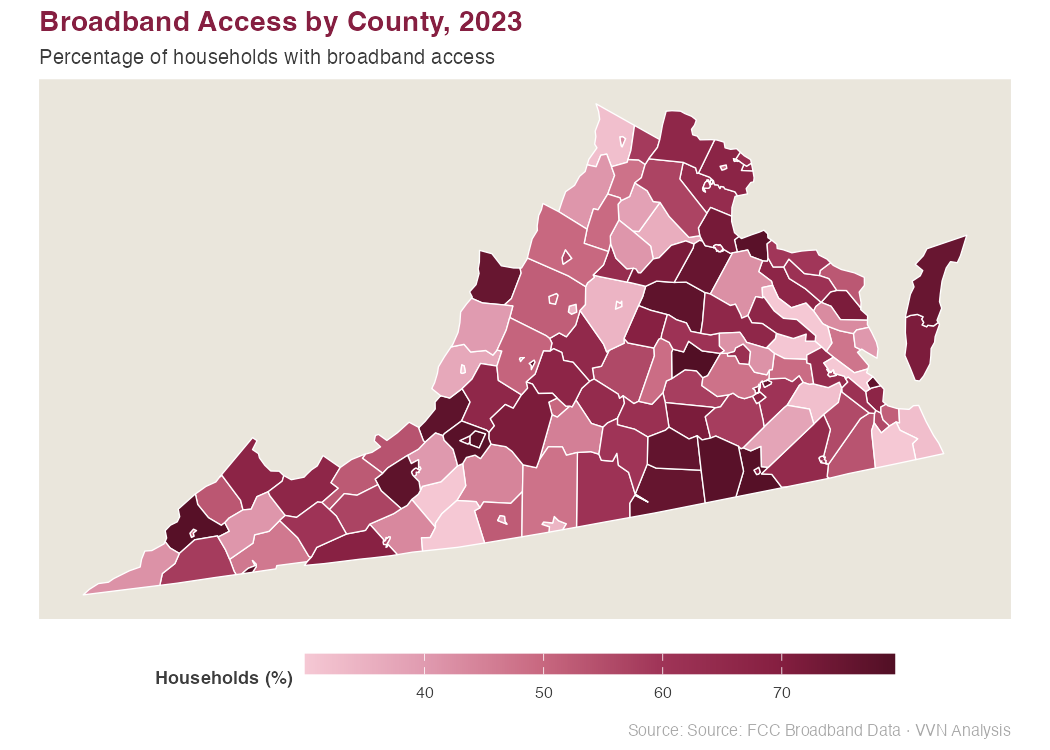
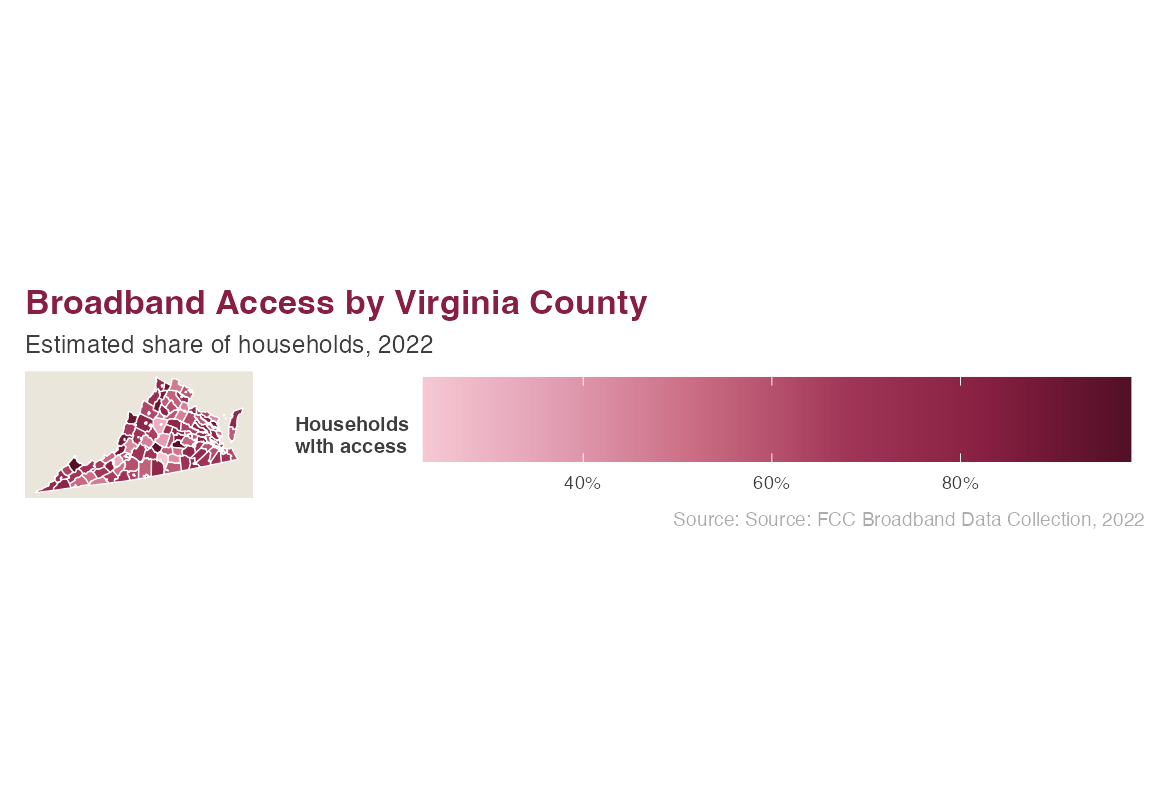
Redesign demo panel: side-by-side terminal UI, new Virginia map
- New side-by-side layout (58fr/42fr) with dark navy terminal theme
- Traffic-light dots in code panel header
- New demo-map.png: Virginia county broadband choropleth via tigris/sf
- Light breadcrumb bar navigation in all pages
- funcindex.qmd reorganized by category with TOC

diff --git a/docs/index.html b/docs/index.html
@@ -77,7 +77,7 @@ pre > code.sourceCode > span > a:first-child::before { text-decoration: underlin
 <link href="site_libs/quarto-html/quarto-syntax-highlighting-acf12a64177840b8d86f2d4f01b2e9fb.css" rel="stylesheet" id="quarto-text-highlighting-styles">
 <script src="site_libs/bootstrap/bootstrap.min.js"></script>
 <link href="site_libs/bootstrap/bootstrap-icons.css" rel="stylesheet">
-<link href="site_libs/bootstrap/bootstrap-7bac25fbb771050e881862a1862898b3.min.css" rel="stylesheet" append-hash="true" id="quarto-bootstrap" data-mode="light">
+<link href="site_libs/bootstrap/bootstrap-71bd93bf73a5281e69cbd034b7b923c6.min.css" rel="stylesheet" append-hash="true" id="quarto-bootstrap" data-mode="light">
 <script id="quarto-search-options" type="application/json">{
   "location": "navbar",
   "copy-button": false,
@@ -427,15 +427,15 @@ pre > code.sourceCode > span > a:first-child::before { text-decoration: underlin
 <section id="demo-build-a-choropleth-map" class="level2">
 <h2 class="anchored" data-anchor-id="demo-build-a-choropleth-map">Demo: Build a Choropleth Map</h2>
 <p>Load <code>vvnthemes</code>, join your county data, and call <code>vvn_map_style()</code> — the map is styled, labeled, and ready in under 10 lines of code.</p>
-<div class="demo-panel demo-panel--stacked">
+<div class="demo-panel">
 <div class="demo-panel-code">
-<div class="demo-panel-header">R — county choropleth map</div>
+<div class="demo-panel-header">vvnthemes · choropleth_map.R</div>
 <div class="demo-panel-body">
 <pre><code id="demo-gs-code"></code><span class="demo-cursor" id="demo-gs-cursor"></span></pre>
 </div>
 </div>
 <div class="demo-panel-output" id="demo-gs-output" style="opacity:0;transition:opacity 0.7s ease;">
-<div class="demo-panel-header">Map output</div>
+<div class="demo-panel-header">Output</div>
 <div class="demo-panel-body">
 <img src="images/demo-map.png" alt="VVN county choropleth map of Virginia">
 </div>
@@ -1245,15 +1245,15 @@ document.addEventListener('DOMContentLoaded', function () {
 <span id="cb3-228"><a href="#cb3-228" aria-hidden="true" tabindex="-1"></a>Load <span class="in">`vvnthemes`</span>, join your county data, and call <span class="in">`vvn_map_style()`</span> — the map is styled, labeled, and ready in under 10 lines of code.</span>
 <span id="cb3-229"><a href="#cb3-229" aria-hidden="true" tabindex="-1"></a></span>
 <span id="cb3-230"><a href="#cb3-230" aria-hidden="true" tabindex="-1"></a><span class="in">```{=html}</span></span>
-<span id="cb3-231"><a href="#cb3-231" aria-hidden="true" tabindex="-1"></a><span class="in">&lt;div class="demo-panel demo-panel--stacked"&gt;</span></span>
+<span id="cb3-231"><a href="#cb3-231" aria-hidden="true" tabindex="-1"></a><span class="in">&lt;div class="demo-panel"&gt;</span></span>
 <span id="cb3-232"><a href="#cb3-232" aria-hidden="true" tabindex="-1"></a><span class="in">&lt;div class="demo-panel-code"&gt;</span></span>
-<span id="cb3-233"><a href="#cb3-233" aria-hidden="true" tabindex="-1"></a><span class="in">&lt;div class="demo-panel-header"&gt;R — county choropleth map&lt;/div&gt;</span></span>
+<span id="cb3-233"><a href="#cb3-233" aria-hidden="true" tabindex="-1"></a><span class="in">&lt;div class="demo-panel-header"&gt;vvnthemes · choropleth_map.R&lt;/div&gt;</span></span>
 <span id="cb3-234"><a href="#cb3-234" aria-hidden="true" tabindex="-1"></a><span class="in">&lt;div class="demo-panel-body"&gt;</span></span>
 <span id="cb3-235"><a href="#cb3-235" aria-hidden="true" tabindex="-1"></a><span class="in">&lt;pre&gt;&lt;code id="demo-gs-code"&gt;&lt;/code&gt;&lt;span class="demo-cursor" id="demo-gs-cursor"&gt;&lt;/span&gt;&lt;/pre&gt;</span></span>
 <span id="cb3-236"><a href="#cb3-236" aria-hidden="true" tabindex="-1"></a><span class="in">&lt;/div&gt;</span></span>
 <span id="cb3-237"><a href="#cb3-237" aria-hidden="true" tabindex="-1"></a><span class="in">&lt;/div&gt;</span></span>
 <span id="cb3-238"><a href="#cb3-238" aria-hidden="true" tabindex="-1"></a><span class="in">&lt;div class="demo-panel-output" id="demo-gs-output" style="opacity:0;transition:opacity 0.7s ease;"&gt;</span></span>
-<span id="cb3-239"><a href="#cb3-239" aria-hidden="true" tabindex="-1"></a><span class="in">&lt;div class="demo-panel-header"&gt;Map output&lt;/div&gt;</span></span>
+<span id="cb3-239"><a href="#cb3-239" aria-hidden="true" tabindex="-1"></a><span class="in">&lt;div class="demo-panel-header"&gt;Output&lt;/div&gt;</span></span>
 <span id="cb3-240"><a href="#cb3-240" aria-hidden="true" tabindex="-1"></a><span class="in">&lt;div class="demo-panel-body"&gt;</span></span>
 <span id="cb3-241"><a href="#cb3-241" aria-hidden="true" tabindex="-1"></a><span class="in">&lt;img src="images/demo-map.png" alt="VVN county choropleth map of Virginia"&gt;</span></span>
 <span id="cb3-242"><a href="#cb3-242" aria-hidden="true" tabindex="-1"></a><span class="in">&lt;/div&gt;</span></span>

diff --git a/docs/charts.html b/docs/charts.html
@@ -77,7 +77,7 @@ pre > code.sourceCode > span > a:first-child::before { text-decoration: underlin
 <link href="site_libs/quarto-html/quarto-syntax-highlighting-acf12a64177840b8d86f2d4f01b2e9fb.css" rel="stylesheet" id="quarto-text-highlighting-styles">
 <script src="site_libs/bootstrap/bootstrap.min.js"></script>
 <link href="site_libs/bootstrap/bootstrap-icons.css" rel="stylesheet">
-<link href="site_libs/bootstrap/bootstrap-7bac25fbb771050e881862a1862898b3.min.css" rel="stylesheet" append-hash="true" id="quarto-bootstrap" data-mode="light">
+<link href="site_libs/bootstrap/bootstrap-71bd93bf73a5281e69cbd034b7b923c6.min.css" rel="stylesheet" append-hash="true" id="quarto-bootstrap" data-mode="light">
 <script id="quarto-search-options" type="application/json">{
   "location": "navbar",
   "copy-button": false,

diff --git a/docs/dashboard.html b/docs/dashboard.html
@@ -77,7 +77,7 @@ pre > code.sourceCode > span > a:first-child::before { text-decoration: underlin
 <link href="site_libs/quarto-html/quarto-syntax-highlighting-acf12a64177840b8d86f2d4f01b2e9fb.css" rel="stylesheet" id="quarto-text-highlighting-styles">
 <script src="site_libs/bootstrap/bootstrap.min.js"></script>
 <link href="site_libs/bootstrap/bootstrap-icons.css" rel="stylesheet">
-<link href="site_libs/bootstrap/bootstrap-7bac25fbb771050e881862a1862898b3.min.css" rel="stylesheet" append-hash="true" id="quarto-bootstrap" data-mode="light">
+<link href="site_libs/bootstrap/bootstrap-71bd93bf73a5281e69cbd034b7b923c6.min.css" rel="stylesheet" append-hash="true" id="quarto-bootstrap" data-mode="light">
 <script id="quarto-search-options" type="application/json">{
   "location": "navbar",
   "copy-button": false,

diff --git a/docs/faq.html b/docs/faq.html
@@ -77,7 +77,7 @@ pre > code.sourceCode > span > a:first-child::before { text-decoration: underlin
 <link href="site_libs/quarto-html/quarto-syntax-highlighting-acf12a64177840b8d86f2d4f01b2e9fb.css" rel="stylesheet" id="quarto-text-highlighting-styles">
 <script src="site_libs/bootstrap/bootstrap.min.js"></script>
 <link href="site_libs/bootstrap/bootstrap-icons.css" rel="stylesheet">
-<link href="site_libs/bootstrap/bootstrap-7bac25fbb771050e881862a1862898b3.min.css" rel="stylesheet" append-hash="true" id="quarto-bootstrap" data-mode="light">
+<link href="site_libs/bootstrap/bootstrap-71bd93bf73a5281e69cbd034b7b923c6.min.css" rel="stylesheet" append-hash="true" id="quarto-bootstrap" data-mode="light">
 <script id="quarto-search-options" type="application/json">{
   "location": "navbar",
   "copy-button": false,

diff --git a/docs/funcindex.html b/docs/funcindex.html
@@ -77,7 +77,7 @@ pre > code.sourceCode > span > a:first-child::before { text-decoration: underlin
 <link href="site_libs/quarto-html/quarto-syntax-highlighting-acf12a64177840b8d86f2d4f01b2e9fb.css" rel="stylesheet" id="quarto-text-highlighting-styles">
 <script src="site_libs/bootstrap/bootstrap.min.js"></script>
 <link href="site_libs/bootstrap/bootstrap-icons.css" rel="stylesheet">
-<link href="site_libs/bootstrap/bootstrap-7bac25fbb771050e881862a1862898b3.min.css" rel="stylesheet" append-hash="true" id="quarto-bootstrap" data-mode="light">
+<link href="site_libs/bootstrap/bootstrap-71bd93bf73a5281e69cbd034b7b923c6.min.css" rel="stylesheet" append-hash="true" id="quarto-bootstrap" data-mode="light">
 <script id="quarto-search-options" type="application/json">{
   "location": "navbar",
   "copy-button": false,

diff --git a/docs/get-started.html b/docs/get-started.html
@@ -77,7 +77,7 @@ pre > code.sourceCode > span > a:first-child::before { text-decoration: underlin
 <link href="site_libs/quarto-html/quarto-syntax-highlighting-acf12a64177840b8d86f2d4f01b2e9fb.css" rel="stylesheet" id="quarto-text-highlighting-styles">
 <script src="site_libs/bootstrap/bootstrap.min.js"></script>
 <link href="site_libs/bootstrap/bootstrap-icons.css" rel="stylesheet">
-<link href="site_libs/bootstrap/bootstrap-7bac25fbb771050e881862a1862898b3.min.css" rel="stylesheet" append-hash="true" id="quarto-bootstrap" data-mode="light">
+<link href="site_libs/bootstrap/bootstrap-71bd93bf73a5281e69cbd034b7b923c6.min.css" rel="stylesheet" append-hash="true" id="quarto-bootstrap" data-mode="light">
 <script id="quarto-search-options" type="application/json">{
   "location": "navbar",
   "copy-button": false,

diff --git a/docs/interactive-components.html b/docs/interactive-components.html
@@ -77,7 +77,7 @@ pre > code.sourceCode > span > a:first-child::before { text-decoration: underlin
 <link href="site_libs/quarto-html/quarto-syntax-highlighting-acf12a64177840b8d86f2d4f01b2e9fb.css" rel="stylesheet" id="quarto-text-highlighting-styles">
 <script src="site_libs/bootstrap/bootstrap.min.js"></script>
 <link href="site_libs/bootstrap/bootstrap-icons.css" rel="stylesheet">
-<link href="site_libs/bootstrap/bootstrap-7bac25fbb771050e881862a1862898b3.min.css" rel="stylesheet" append-hash="true" id="quarto-bootstrap" data-mode="light">
+<link href="site_libs/bootstrap/bootstrap-71bd93bf73a5281e69cbd034b7b923c6.min.css" rel="stylesheet" append-hash="true" id="quarto-bootstrap" data-mode="light">
 <script id="quarto-search-options" type="application/json">{
   "location": "navbar",
   "copy-button": false,

diff --git a/docs/maps.html b/docs/maps.html
@@ -77,7 +77,7 @@ pre > code.sourceCode > span > a:first-child::before { text-decoration: underlin
 <link href="site_libs/quarto-html/quarto-syntax-highlighting-acf12a64177840b8d86f2d4f01b2e9fb.css" rel="stylesheet" id="quarto-text-highlighting-styles">
 <script src="site_libs/bootstrap/bootstrap.min.js"></script>
 <link href="site_libs/bootstrap/bootstrap-icons.css" rel="stylesheet">
-<link href="site_libs/bootstrap/bootstrap-7bac25fbb771050e881862a1862898b3.min.css" rel="stylesheet" append-hash="true" id="quarto-bootstrap" data-mode="light">
+<link href="site_libs/bootstrap/bootstrap-71bd93bf73a5281e69cbd034b7b923c6.min.css" rel="stylesheet" append-hash="true" id="quarto-bootstrap" data-mode="light">
 <script id="quarto-search-options" type="application/json">{
   "location": "navbar",
   "copy-button": false,

diff --git a/docs/refman.html b/docs/refman.html
@@ -77,7 +77,7 @@ pre > code.sourceCode > span > a:first-child::before { text-decoration: underlin
 <link href="site_libs/quarto-html/quarto-syntax-highlighting-acf12a64177840b8d86f2d4f01b2e9fb.css" rel="stylesheet" id="quarto-text-highlighting-styles">
 <script src="site_libs/bootstrap/bootstrap.min.js"></script>
 <link href="site_libs/bootstrap/bootstrap-icons.css" rel="stylesheet">
-<link href="site_libs/bootstrap/bootstrap-7bac25fbb771050e881862a1862898b3.min.css" rel="stylesheet" append-hash="true" id="quarto-bootstrap" data-mode="light">
+<link href="site_libs/bootstrap/bootstrap-71bd93bf73a5281e69cbd034b7b923c6.min.css" rel="stylesheet" append-hash="true" id="quarto-bootstrap" data-mode="light">
 <script id="quarto-search-options" type="application/json">{
   "location": "navbar",
   "copy-button": false,

diff --git a/docs/tables.html b/docs/tables.html
@@ -77,7 +77,7 @@ pre > code.sourceCode > span > a:first-child::before { text-decoration: underlin
 <link href="site_libs/quarto-html/quarto-syntax-highlighting-acf12a64177840b8d86f2d4f01b2e9fb.css" rel="stylesheet" id="quarto-text-highlighting-styles">
 <script src="site_libs/bootstrap/bootstrap.min.js"></script>
 <link href="site_libs/bootstrap/bootstrap-icons.css" rel="stylesheet">
-<link href="site_libs/bootstrap/bootstrap-7bac25fbb771050e881862a1862898b3.min.css" rel="stylesheet" append-hash="true" id="quarto-bootstrap" data-mode="light">
+<link href="site_libs/bootstrap/bootstrap-71bd93bf73a5281e69cbd034b7b923c6.min.css" rel="stylesheet" append-hash="true" id="quarto-bootstrap" data-mode="light">
 <script id="quarto-search-options" type="application/json">{
   "location": "navbar",
   "copy-button": false,

diff --git a/docs/vvn-insight.html b/docs/vvn-insight.html
@@ -77,7 +77,7 @@ pre > code.sourceCode > span > a:first-child::before { text-decoration: underlin
 <link href="site_libs/quarto-html/quarto-syntax-highlighting-acf12a64177840b8d86f2d4f01b2e9fb.css" rel="stylesheet" id="quarto-text-highlighting-styles">
 <script src="site_libs/bootstrap/bootstrap.min.js"></script>
 <link href="site_libs/bootstrap/bootstrap-icons.css" rel="stylesheet">
-<link href="site_libs/bootstrap/bootstrap-7bac25fbb771050e881862a1862898b3.min.css" rel="stylesheet" append-hash="true" id="quarto-bootstrap" data-mode="light">
+<link href="site_libs/bootstrap/bootstrap-71bd93bf73a5281e69cbd034b7b923c6.min.css" rel="stylesheet" append-hash="true" id="quarto-bootstrap" data-mode="light">
 <script id="quarto-search-options" type="application/json">{
   "location": "navbar",
   "copy-button": false,

diff --git a/docs/vvnthemes.html b/docs/vvnthemes.html
@@ -77,7 +77,7 @@ pre > code.sourceCode > span > a:first-child::before { text-decoration: underlin
 <link href="site_libs/quarto-html/quarto-syntax-highlighting-acf12a64177840b8d86f2d4f01b2e9fb.css" rel="stylesheet" id="quarto-text-highlighting-styles">
 <script src="site_libs/bootstrap/bootstrap.min.js"></script>
 <link href="site_libs/bootstrap/bootstrap-icons.css" rel="stylesheet">
-<link href="site_libs/bootstrap/bootstrap-7bac25fbb771050e881862a1862898b3.min.css" rel="stylesheet" append-hash="true" id="quarto-bootstrap" data-mode="light">
+<link href="site_libs/bootstrap/bootstrap-71bd93bf73a5281e69cbd034b7b923c6.min.css" rel="stylesheet" append-hash="true" id="quarto-bootstrap" data-mode="light">
 <script id="quarto-search-options" type="application/json">{
   "location": "navbar",
   "copy-button": false,